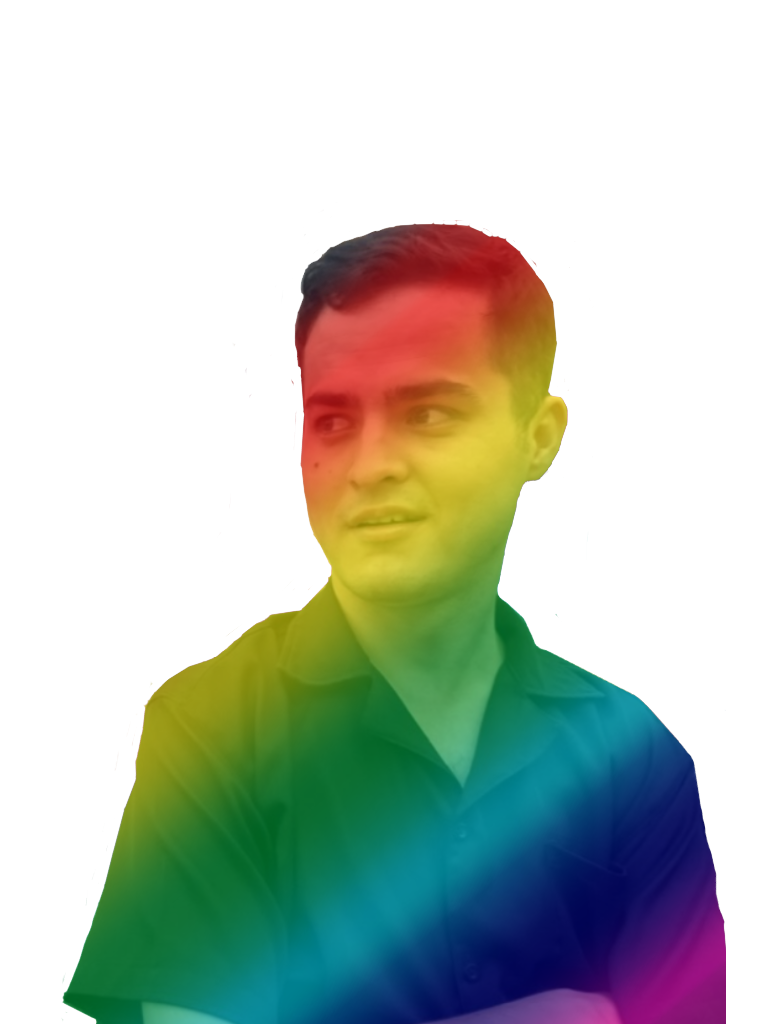
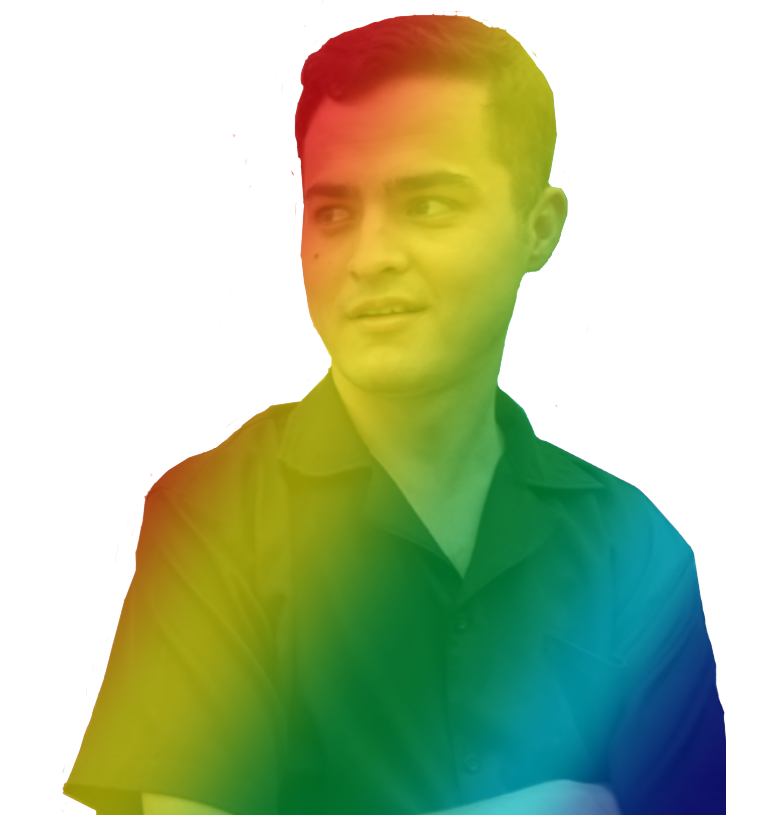
Home Page completed, lsocial links added

diff --git a/src/components/Landing.tsx b/src/components/Landing.tsx
@@ -1,3 +1,108 @@
+import React, { useState, useEffect } from "react";
+import imgRegular from "../assets/img/david/landing-regular.png";
+import imgColor from "../assets/img/david/landing-color.png";
 export const Landing = () => {
-  return <div className="landing-container">landing</div>;
+  const [mouseX, setMouseX] = useState<number>(0.5);
+
+  const handleMouseMove = (event: MouseEvent) => {
+    const windowWidth = window.innerWidth;
+    const mouseXPosition = event.clientX / windowWidth;
+    setMouseX(mouseXPosition);
+  };
+
+  useEffect(() => {
+    const landingContainer = document.querySelector(".landing-container");
+    if (landingContainer) {
+      landingContainer.addEventListener(
+        "mousemove",
+        handleMouseMove as EventListener
+      );
+    }
+
+    return () => {
+      if (landingContainer) {
+        landingContainer.removeEventListener(
+          "mousemove",
+          handleMouseMove as EventListener
+        );
+      }
+    };
+  }, []);
+
+  const calculateOpacity = (x: number) => {
+    const opacity = (x - 0.15) / (0.85 - 0.15);
+
+    return Math.min(Math.max(opacity, 0), 1);
+  };
+
+  const calculateDistance = (x: number) => {
+    const distance = (x - 0.4) / (0.6 - 0.4);
+
+    return Math.min(Math.max(distance, 0), 1);
+  };
+
+  const calculateImagePosition = (x: number): string => {
+    const minValue = 13;
+    const maxValue = 23;
+    const distance = maxValue - x * (maxValue - minValue);
+    return `${distance}vw`;
+  };
+  const opacityStyleTeacher = {
+    opacity: calculateOpacity(mouseX),
+    transition: "opacity 1s", // Add the transition property for 1 second
+  };
+
+  const opacityStyleCoder = {
+    opacity: 1 - calculateDistance(mouseX),
+    transition: "opacity 1s", // Add the transition property for 1 second
+  };
+
+  const returnPercentage = (x: number): string => {
+    if (x >= 0 && x <= 0.35) {
+      return "0%";
+    } else if (x <= 0.5) {
+      const percentage = ((x - 0.35) / (0.5 - 0.35)) * 60;
+      return `${percentage}%`;
+    } else if (x <= 0.7) {
+      const percentage = ((x - 0.5) / (0.7 - 0.5)) * 60 + 6;
+      return `${percentage}%`;
+    } else {
+      return "120%";
+    }
+  };
+  const imgColorStyle = {
+    width: returnPercentage(calculateOpacity(mouseX)),
+    transition: "width 2s",
+  };
+
+  const imgPostionStyle = {
+    left: calculateImagePosition(calculateOpacity(mouseX)),
+    transition: "left 2s",
+  };
+
+  return (
+    <a className="landing-container" href="/about">
+      <div className="jobs-container">
+        <div className="job-container div-coder" style={opacityStyleCoder}>
+          <h1>{"<coder>"}</h1>
+          <p>Front end React Developer who tries to write elegant code</p>
+        </div>
+        <div className="job-container div-teacher" style={opacityStyleTeacher}>
+          <h1>teacher</h1>
+          <p>Over 5 years of teaching experience in English and IT</p>
+          {/* <p>{returnPercentage(calculateOpacity(mouseX))}</p> */}
+        </div>
+      </div>
+      <div className="image-container" style={imgPostionStyle}>
+        <div className="div-cover">
+          <div className="div-img div-regular">
+            <img className=" img-regular" src={imgRegular} alt="" />
+          </div>
+          <div className="div-img div-color" style={imgColorStyle}>
+            <img className=" img-color" src={imgColor} alt="" />
+          </div>
+        </div>
+      </div>
+    </a>
+  );
 };

diff --git a/src/SCSS/app.scss b/src/SCSS/app.scss
@@ -52,11 +52,12 @@ body {
       width: 60%;
       display: flex;
       justify-content: center;
-      * {
+      a {
+        color: $color--white;
         font-size: 1.6em;
         cursor: pointer;
       }
-      *:hover {
+      a:hover {
         color: $color--cyan-bluish-gray;
       }
     }
@@ -71,7 +72,7 @@ body {
     box-shadow: $shadow--footer;
     padding: 0 10em 0 10em;
     display: grid;
-    grid-template-columns: 1fr 1fr 1fr;
+    grid-template-columns: 3fr 1fr 2fr;
 
     .button-go-up {
       margin-top: -4em;
@@ -108,10 +109,104 @@ body {
     }
   }
   .home-container {
-    min-height: 90vh;
+    min-height: 100vh;
 
     .landing-container {
-      height: 80vh;
+      text-decoration: none;
+
+      width: 90vw;
+
+      overflow: hidden;
+      cursor: pointer;
+      position: relative;
+      display: block;
+      padding: 0;
+      height: 600px;
+      margin: auto;
+      .jobs-container {
+        height: 80vh;
+        width: 85vw;
+        margin: auto;
+        display: grid;
+        grid-template-columns: 1fr 1fr;
+        .job-container {
+          width: 50%;
+          text-align: justify;
+          margin: auto;
+          color: $color--black;
+          h1 {
+            font-size: 4.8em;
+            margin: 0;
+            line-height: 1em;
+            font-weight: 800;
+          }
+          p {
+            font-size: 1.03em;
+            color: $color--dark-gray;
+          }
+        }
+        .div-coder {
+          margin-left: 0;
+        }
+        .div-teacher {
+          margin-right: 0;
+        }
+      }
+      .image-container {
+        position: absolute;
+
+        bottom: 0;
+        width: 50vw;
+        height: 100%;
+        margin: 0;
+        left: -25vw;
+        overflow: hidden;
+
+        .div-cover {
+          margin: 0;
+          position: relative;
+          display: block;
+          width: 100%;
+          height: 100%;
+
+          .div-img {
+            position: absolute;
+            top: 0;
+            left: -100px;
+
+            overflow-y: hidden;
+            overflow-y: visible;
+            height: 100%;
+
+            margin: 0;
+
+            img {
+              height: 600px;
+              left: -20px;
+            }
+          }
+
+          .div-regular {
+            width: 60vw;
+            overflow-x: visible;
+
+            img {
+              bottom: 0;
+              width: 60vw !important;
+            }
+          }
+
+          .div-color {
+            overflow-x: hidden;
+
+            img {
+              bottom: 0;
+              width: 60vw !important;
+              left: -10vw;
+            }
+          }
+        }
+      }
     }
     .latest-work-container {
       padding: 5vw;
@@ -342,7 +437,7 @@ body {
           display: grid;
           grid-template-columns: 1fr 3fr;
           gap: 0.9em;
-
+          text-decoration: none;
           .social-logo-container {
             border-radius: 100%;
             height: 2.6em;

diff --git a/src/components/ContactMeViaSocialMedia.tsx b/src/components/ContactMeViaSocialMedia.tsx
@@ -11,32 +11,48 @@ export const ContactMeViaSocialMedia = () => {
         <h3>Get in touch with me via social media or email.</h3>
 
         <div className="social-links-container">
-          <div className="social-link social-link-linkedin">
+          <a
+            className="social-link social-link-linkedin"
+            href="https://www.linkedin.com/in/davranbek-rozmetov-5a89301aa/"
+            target="_blank"
+          >
             <div className="social-logo-container social-logo-linkedin">
               <FaLinkedinIn />
             </div>
 
             <p className="social-name-linkedin">LinkedIn</p>
-          </div>
+          </a>
 
-          <div className="social-link social-link-instagram ">
+          <a
+            className="social-link social-link-instagram "
+            href="https://www.instagram.com/teacherdvid/"
+            target="_blank"
+          >
             <div className="social-logo-container social-logo-instagram">
               <FaInstagram />
             </div>
             <p className="social-name-instagram">Instagram</p>
-          </div>
-          <div className="social-link social-link-facebook ">
+          </a>
+          <a
+            className="social-link social-link-facebook "
+            href="https://www.facebook.com/davrabekRozmetov1/"
+            target="_blank"
+          >
             <div className="social-logo-container social-logo-facebook">
               <FaFacebookF />
             </div>
             <p className="social-name-facebook">Facebook</p>
-          </div>
-          <div className="social-link social-link-line ">
+          </a>
+          <a
+            className="social-link social-link-line "
+            href="https://line.me/ti/p/Jq_GQiOr3e"
+            target="_blank"
+          >
             <div className="social-logo-container social-logo-line">
               <BsLine />
             </div>
             <p className="social-name-line">Line</p>
-          </div>
+          </a>
         </div>
       </div>
       <div className="contact-me-photo">[photo]</div>

diff --git a/src/components/Navbar.tsx b/src/components/Navbar.tsx
@@ -1,5 +1,11 @@
 import { BsLine } from "react-icons/bs";
-import { FaInstagram, FaLinkedinIn, FaFacebookF, FaLine } from "react-icons/fa";
+import {
+  FaInstagram,
+  FaLinkedinIn,
+  FaFacebookF,
+  FaLine,
+  FaGithub,
+} from "react-icons/fa";
 import Logo from "../assets/logo-white-text.png";
 export const Navbar = () => {
   return (
@@ -28,14 +34,7 @@ export const Navbar = () => {
         >
           portfolio
         </a>
-        <a
-          href="/blog"
-          className={
-            window.location.pathname === "/blog" ? "navbar-item-active" : ""
-          }
-        >
-          blog
-        </a>
+
         <a
           href="/contact"
           className={
@@ -46,10 +45,23 @@ export const Navbar = () => {
         </a>
       </div>
       <div className="navbar-social-links">
-        <FaLinkedinIn />
-        <FaInstagram />
-        <FaFacebookF />
-        <BsLine />
+        <a
+          href="https://www.linkedin.com/in/davranbek-rozmetov-5a89301aa/"
+          target="_blank"
+        >
+          <FaLinkedinIn />
+        </a>
+
+        <a href="https://github.com/DavidRozmetov" target="_blank">
+          <FaGithub />
+        </a>
+
+        <a href="https://www.facebook.com/davrabekRozmetov1/ " target="_blank">
+          <FaFacebookF />
+        </a>
+        <a href="https://line.me/ti/p/Jq_GQiOr3e" target="_blank">
+          <BsLine />
+        </a>
       </div>
     </div>
   );

diff --git a/src/components/Footer.tsx b/src/components/Footer.tsx
@@ -11,7 +11,7 @@ export const Footer = () => {
     <div className="footer-container">
       <a className="all-rights-reserved">
         {" "}
-        &copy; All rights reserved. T-David, 2023
+        &copy; All rights reserved. <strong>Davranbek Rozmetov</strong>, 2023
       </a>
       <div>
         <button
@@ -25,7 +25,7 @@ export const Footer = () => {
       </div>
       <div className="footer-items">
         <a href="/about">About</a>
-        <a href="/blog">Blog</a>
+
         <a href="/contact">Contact Me</a>
         <a href="/portfolio">Portfolio</a>
       </div>

diff --git a/src/pages/About.tsx b/src/pages/About.tsx
@@ -14,7 +14,6 @@ export const About = () => {
       <AboutMe></AboutMe>
       <Skills></Skills>
       <RandomFacts></RandomFacts>
-      <MyStory></MyStory>
     </div>
   );
 };
